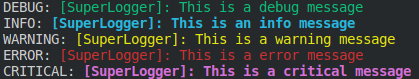
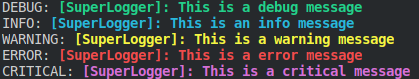
enforced all bright colors

diff --git a/webapp/utils/super_logger.py b/webapp/utils/super_logger.py
@@ -104,7 +104,7 @@ class SuperLogger:
         if self.initialized:
             msg = f'[{tag}]: {msg}'
             if self._use_color:
-                msg = Style.NORMAL + Fore.GREEN + msg + Style.RESET_ALL
+                msg = Style.BRIGHT + Fore.GREEN + msg + Style.RESET_ALL
 
             self._logger.debug(msg)
 
@@ -130,7 +130,7 @@ class SuperLogger:
         if self.initialized:
             msg = f'[{tag}]: {msg}'
             if self._use_color:
-                msg = Style.NORMAL + Fore.YELLOW + msg + Style.RESET_ALL
+                msg = Style.BRIGHT + Fore.YELLOW + msg + Style.RESET_ALL
 
             self._logger.warning(msg)
 
@@ -143,7 +143,7 @@ class SuperLogger:
         if self.initialized:
             msg = f'[{tag}]: {msg}'
             if self._use_color:
-                msg = Style.NORMAL + Fore.RED + msg + Style.RESET_ALL
+                msg = Style.BRIGHT + Fore.RED + msg + Style.RESET_ALL
 
             self._logger.error(msg)
 
